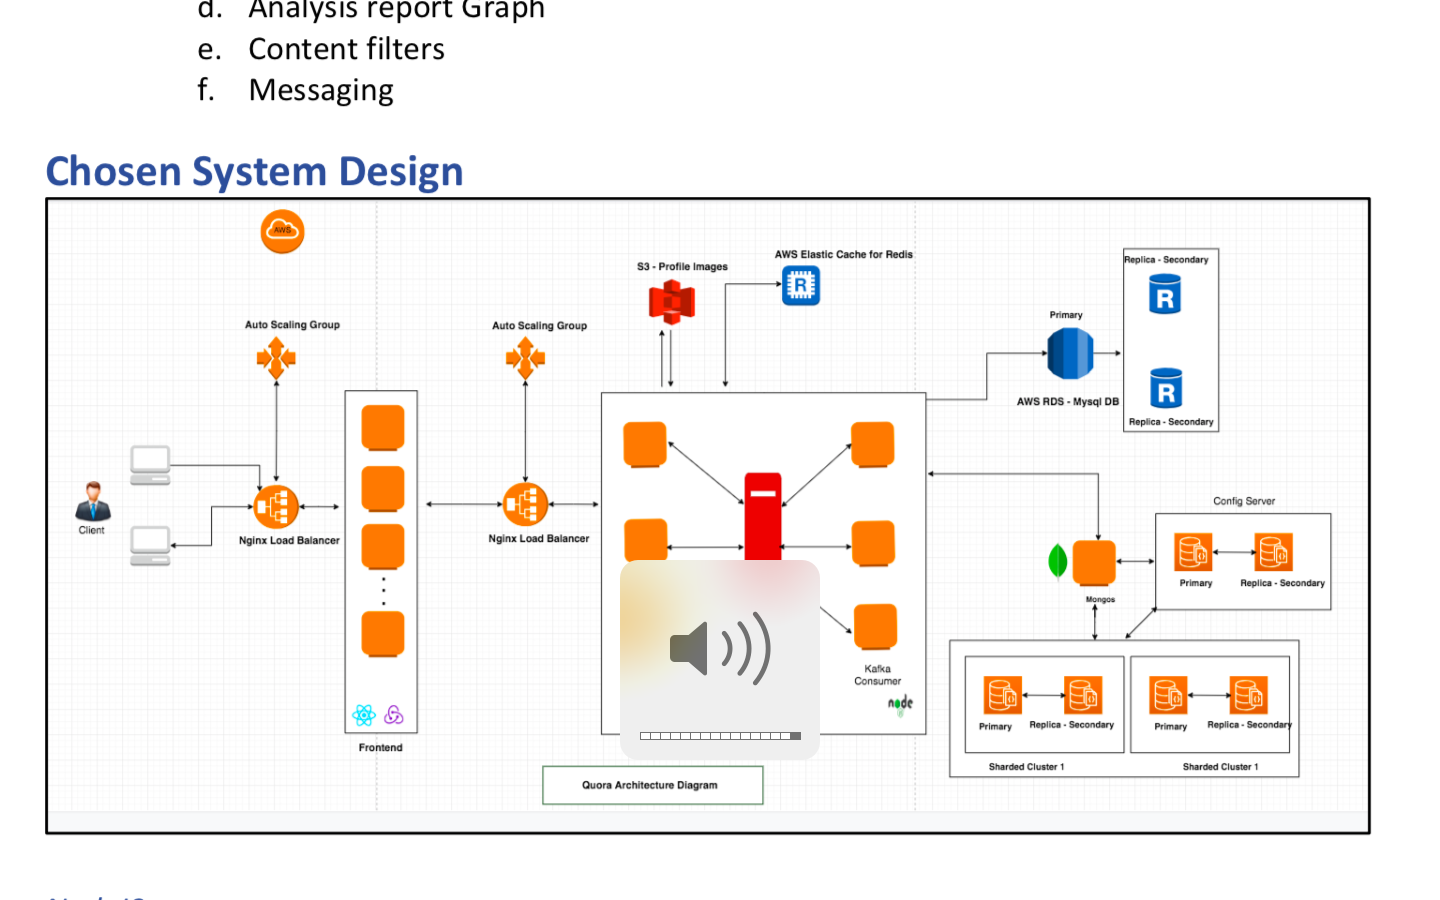
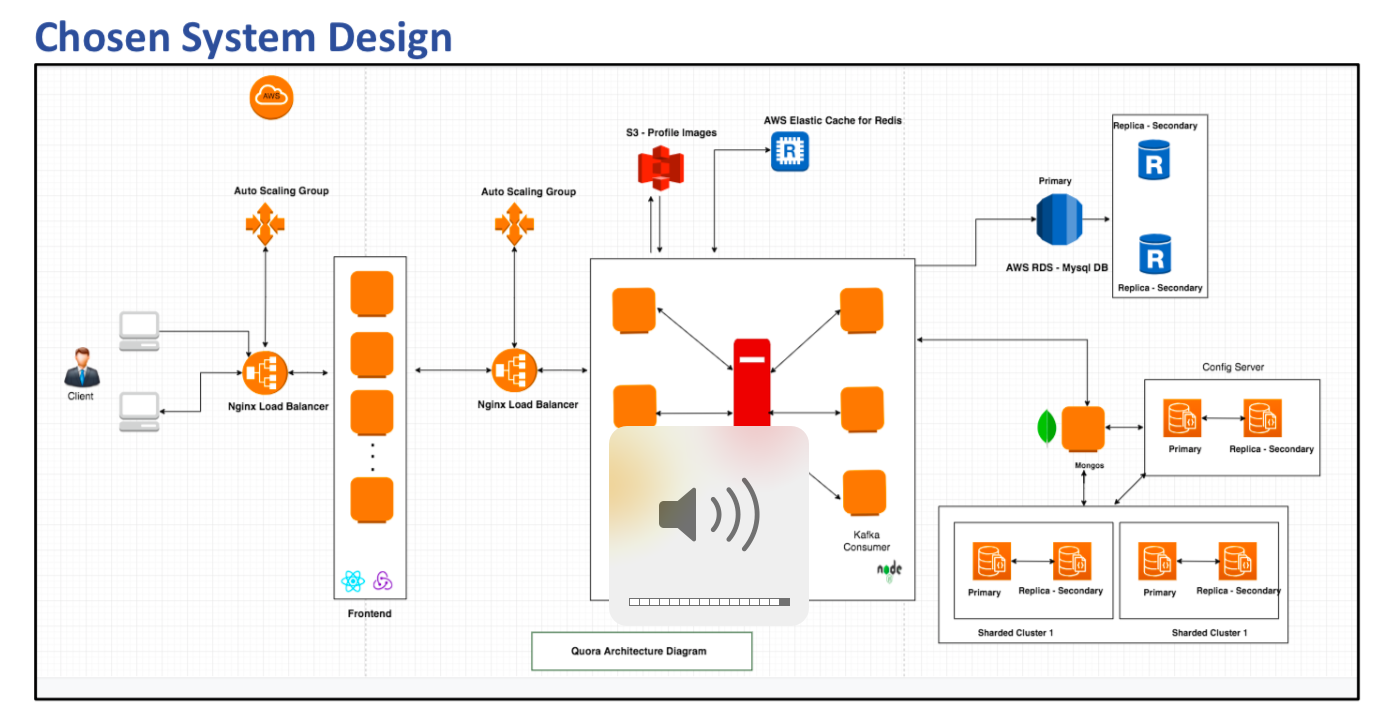
Changing size of Architectural diagram

diff --git a/README.md b/README.md
@@ -31,5 +31,5 @@ bin/kafka-topics.sh --create --zookeeper localhost:2181 --replication-factor 1 -
 
 
 <div align="center">
-    <img src="QuoraArchitecture.png" width="400px"</img> 
+    <img src="QuoraArchitecture.png" width="800px" height="600px"</img> 
 </div
